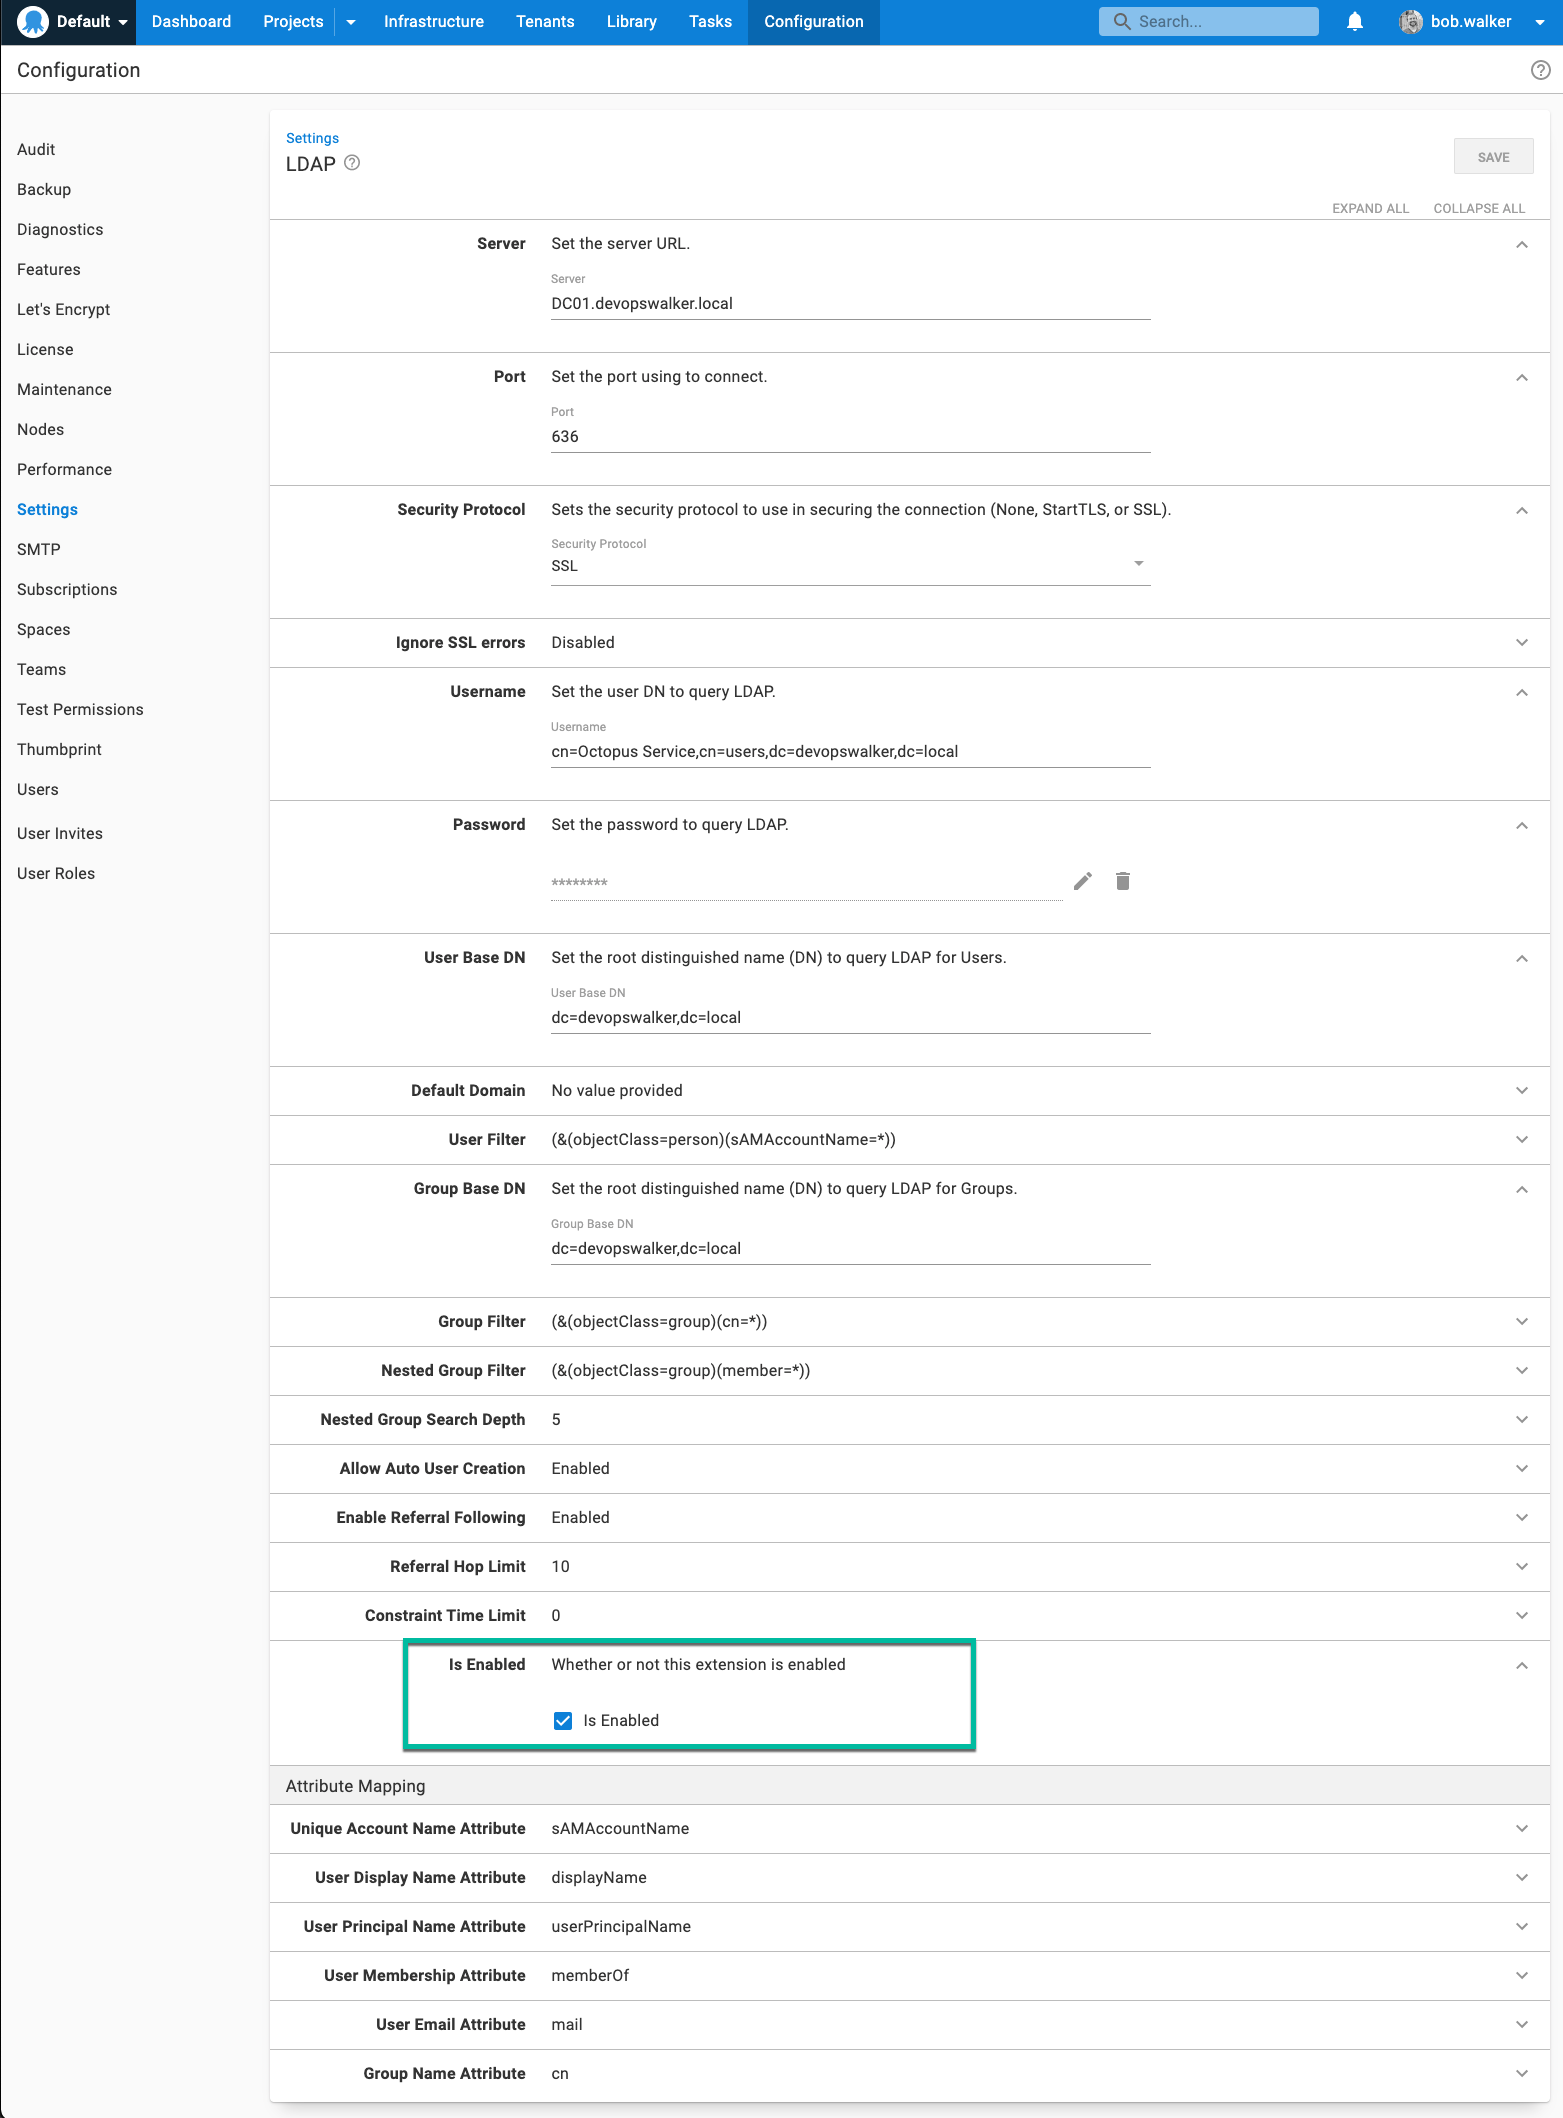
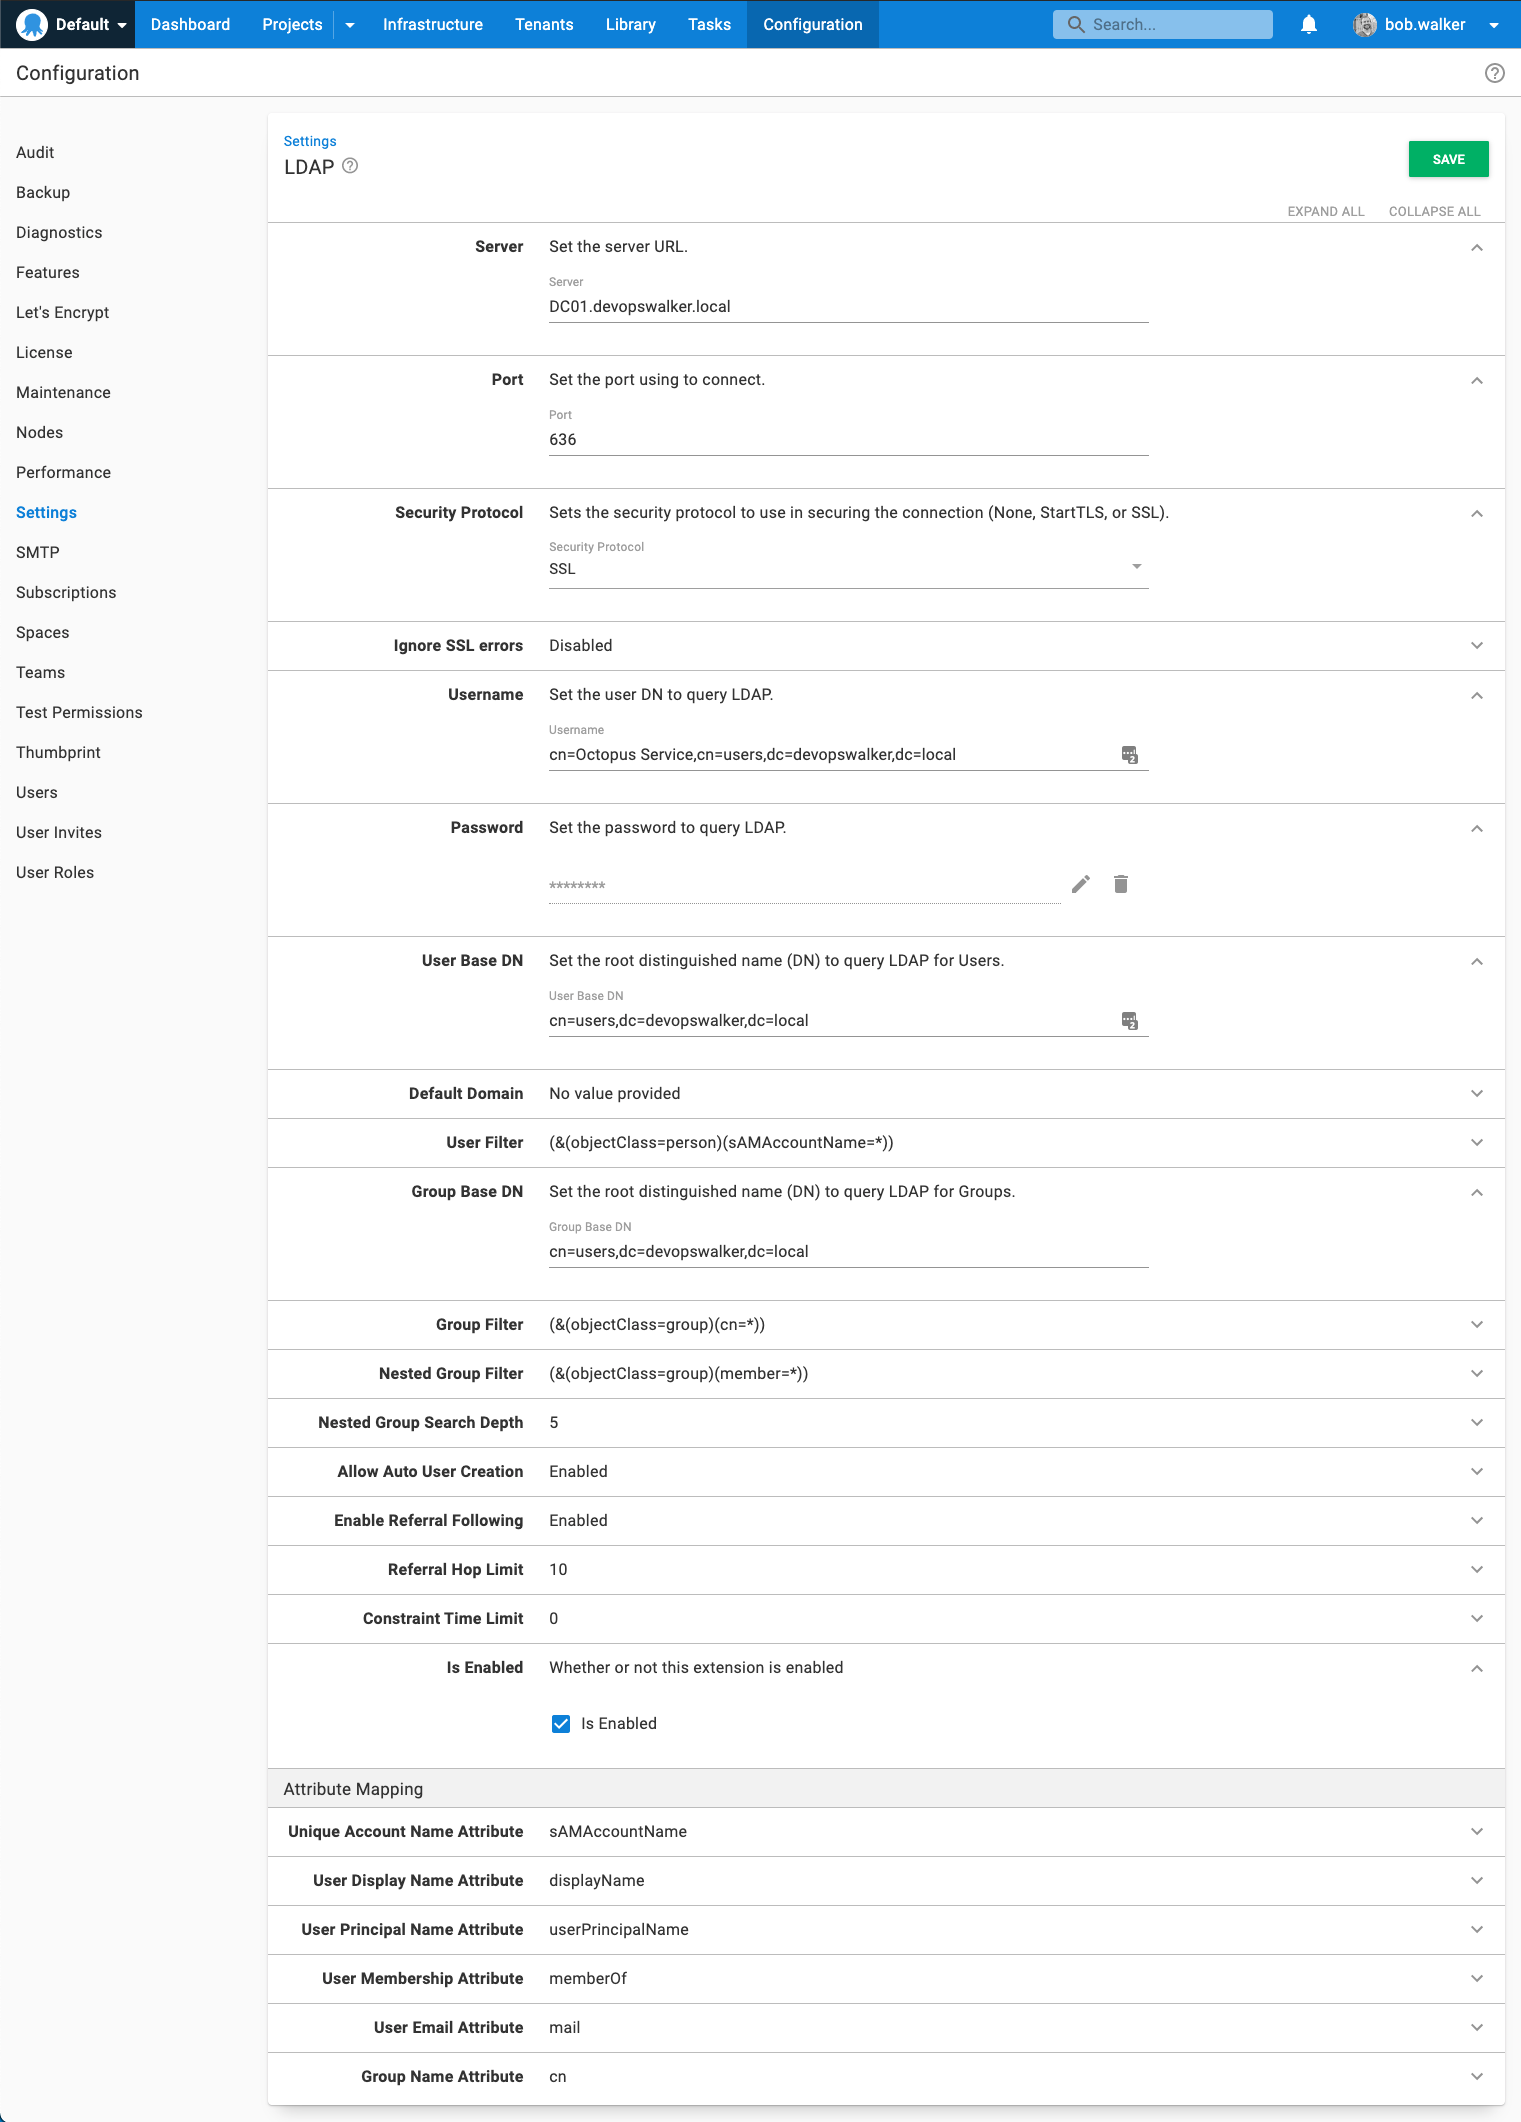
Updates per PR

diff --git a/blog/2021-08/ldap-auth-provider/index.md b/blog/2021-08/ldap-auth-provider/index.md
@@ -10,10 +10,10 @@ tags:
  - Octopus
 ---
 
-In Octopus Deploy 2021.2, we are adding the [LDAP](https://ldap.com/) authentication provider.  In this post, I will walk you through the steps to configure the LDAP authentication provider to work with your LDAP Server.  By the end of this post, my Octopus Deploy instance will authenticate over LDAP to my local domain, `devopswalker.local`, running on Windows Server 2019.
+In Octopus Deploy 2021.2, we are adding the [LDAP](https://ldap.com/) authentication provider.  At first look, this might not seem like a big deal, but it is.  For a lot of our customers, they wish to migrate over to the Octopus Linux Container, but they had to authenticate via Active Directory.  Active Directory is also an LDAP server, meaning with the new LDAP provider you can now use the Octopus Linux Container AND authenticate to Active Directory.  In this post, I will walk you through the steps I did to configure the LDAP authentication provider.  By the end of this post, my Octopus Deploy instance will authenticate over LDAP to my local domain, `devopswalker.local`, running on Windows Server 2019.
 
 :::hint
-This article assumes you are familiar with directory services core concepts.  If you are unsure of any of these concepts, please get in touch with your local system administrator.
+This article assumes you are familiar with directory services core concepts.  If you are unsure of any of these concepts, please talk with your local system administrator.
 :::
 
 ## LDAP Background
@@ -24,21 +24,21 @@ LDAP, or Lightweight Directory Access Protocol, is an open, vendor-neutral, indu
 
 There are three primary use cases why we added LDAP support.
 
-1. Not everyone is running Active Directory.  LDAP is vendor-neutral, meaning more non-Microsoft users can take advantage of external authentication.
+1. Not everyone is running Active Directory.  LDAP is vendor-neutral, meaning more non-Microsoft users can take advantage of external authentication.  Most, if not all, directory servers support LDAP.  
 2. Active Directory / integrated authentication requires servers to be added to the domain.  That does not work with the Octopus Linux Container.
-3. Using Active Directory authentication on a non-Windows client (specifically MacOS) is a pain.  
+3. Users with non-Windows clients (specifically MacOS) will have the exact same experience as Windows clients.  With Active Directory, if you clicked the `Sign in with a domain account` button on Chrome running on MacOS you could end up an enless login prompt loop.  At least, I did (and I didn't have the patience to fix it).
 
-There are several other advantages to using LDAP, such as cross-domain queries.  I'd recommend spending a few hours on [ldap.com](https://ldap.com) to learn more about what LDAP can and cannot offer.
+There are several other advantages to using LDAP, such as cross-domain queries.  I'd recommend spending a few hours on [ldap.com](https://ldap.com) to learn more about what LDAP can and cannot offer.  It is a very flexible protocol, and each directory server, be it Active Directory or OpenLDAP offer a lot of functionality.
 
 ## Secure your LDAP Server First
 
-By default, LDAP traffic is not encrypted.  By monitoring network traffic, an eavesdropper could learn your LDAP password.  Before configuring the LDAP provider in Octopus Deploy, please consult the vendor documentation for your directory server for communicating over SSL or TLS.  Securing an LDAP server is outside the scope of this blog post.  The rest of this post assumes you have worked with your system administrators on securing your LDAP server.
+By default, LDAP traffic is not encrypted.  By monitoring network traffic, an eavesdropper could learn your LDAP password.  Before configuring the LDAP provider in Octopus Deploy, please consult the vendor documentation for your directory server for communicating over SSL or TLS.  Securing an LDAP server is outside the scope of this blog post, and is unique to each vendor.  The rest of this post assumes you have worked with your system administrators on securing your LDAP server.
 
 ## Understanding DNs
 
 In LDAP, a DN, or a distinguished name, uniquely identifies an entry and the position in a directory information tree.  Think of it as a path to a file on a file system.
 
-As I stated earlier, my domain is `devopswalker.local`.  Translating that to a DN LDAP can understand is `dc=devopswalker,dc=local`.  All users are stored in the group users.  The DN for that is `cn=users,dc=devopswalker,dc=local`.  My user account `Bob Walker` DN is `cn=Bob Walker,cn=users,dc=devopswalker,dc=local`
+As I stated earlier, my domain is `devopswalker.local`.  Translating that to a DN LDAP can understand is `dc=devopswalker,dc=local`.  All users and groups on my directory server are stored have a common DN of `cn=users,dc=devopswalker,dc=local`.  My user account `Bob Walker` DN is `cn=Bob Walker,cn=users,dc=devopswalker,dc=local`. 
 
 ## What you will need
 
@@ -46,10 +46,14 @@ Before configuring LDAP, you will need the following.
 
 - The fully qualified domain name, or FQDN, of the server to query.  In my example, it will be `DC01.devopswalker.local`.
 - The port number and security protocol to use.  I'm using the standard secure LDAP port 636 for my domain controller and SSL.
-- The username and password of a service account that can perform user and group lookups.  In my example, it will be `octopus_svc@devopswalker.local`.
-- The root DN you wish to use.  In my example, it will be `dc=devopswalker,dc=local`.
+- The username and password of a service account that can perform user and group lookups.  In my example, it will be `cn=Octopus Service,cn=users,dc=devopswalker,dc=local`.
+- The root DN you wish to use for user and group look up.  In my example, both will be `cn=users,dc=devopswalker,dc=local`.
 
-**Please Note**: my example is using a straightforward Active Directory configuration.  Your DN and FQDN might be much more complex.
+:::hint
+Leverage a tool such as `ldp.exe` for Windows or [LDAP Administrator](https://www.ldapadministrator.com/download.htm#browser) to find where the highest part on the tree / forest you want to start at.  Starting at the root, for example `dc=devopswalker,dc=local` could lead to performance problems as the LDAP query is forced to to traverse hundreds or thousands of records.  The less data to go through, the faster the query will be.  Because of my active directory configuration, all users and groups is stored in `cn=users,dc=devopswalker,dc=local`.  Your server might be different.
+
+![the results of an ldp browser](ldp-browser.png)
+:::
 
 ## Configuring LDAP Authentication Provider in Octopus Deploy
 
@@ -59,12 +63,12 @@ Navigate to {{Configuration, Settings, LDAP}}.  Enter values in the following fi
 - Port: Change the port (if your secure port is different from the default).
 - Security Protocol: Change to SSL or StartTLS.
 - Username: Enter the username that will be used to perform the user lookups.  It can either be `[username]@[domain name]` or the user's DN.
-- User base DN: enter the base DN for your users, which in my example is `dc=devopswalker,dc=local`.
-- Group base DN: enter the base DN for your users, which in my example is `dc=devopswalker,dc=local`.
+- User base DN: enter the base DN for your users, which in my example is `cn=users,dc=devopswalker,dc=local`.
+- Group base DN: enter the base DN for your groups, which in my example is `cn=users,dc=devopswalker,dc=local`.
 - Is Enabled: Check the check box to enable the feature.
 
 :::hint
-If you want to limit the LDAP query, add more values to the user and group base DN.  For example, `cn=users,dc=devopswalker,dc=local`.
+As stated earlier, I am using Active Directory running on Windows Server 2019.  Your root DN might be very different than mine.  Please consult a system administrator or use an LDAP explorer to find the right user and group DNs for your directory service.
 :::
 
 ![basic configuration for LDAP authentication provider](ldap-auth-provider-configuration.png)
@@ -84,12 +88,14 @@ However, I did not see that screen at first. Instead, I saw this:
 
 ![failed user lookup](failed-user-lookup.png)
 
-The error `Unable to connect to the LDAP server.  Please see your administrator if this re-occurs.  Error Code 49 Invalid Credentials` is an LDAP lookup error.  In this case, it means I misconfigured to perform the user and group lookups.  There are also data codes for each LDAP error type code.  To access that information, open up your Octopus Server logs.   
+The error `Unable to connect to the LDAP server.  Please see your administrator if this re-occurs.  Error Code 49 Invalid Credentials` is an LDAP lookup error.  In my case, this was caused by me mistyping the password for the lookup user.  
+
+LDAP also returns a data code for each error code.  In the event you need to look up that information, you'd need to open up your Octopus Server logs.   
 
 ![data error code](ldap-error-data.png)
 
 :::hint
-After banging my head against the wall for a while, I found that my authentication provider was misconfigured.  If you get errors you can't explain, try performing a similar action using an LDAP explorer on the same server hosting Octopus Deploy.  Take Octopus out of the equation.  If everything works via the explorer, reach out to [support@octopus.com](mailto:support@octopus.com) for more help.
+If you get errors you can't explain, try performing a similar action using an LDAP explorer on the same server hosting Octopus Deploy.  In other words, take Octopus out of the equation.  Get everything working via the explorer tool, then try configuring Octopus Deploy.  If everything works via the explorer and something still isn't working with Octopus Deploy, reach out to [support@octopus.com](mailto:support@octopus.com) for more help.
 :::
 
 The external group lookup is the same as the external user lookup.  Except, go to {{Configuration,Teams}} and select a team.  Then click the button `ADD LDAP GROUP` and perform a search.  If everything is configured correctly, then you will see this message:
@@ -104,21 +110,21 @@ After the above tests are successful, it is time to try the next test, logging i
 
 ![UPN Error](failed-sign-in.png)
 
-Changing the username to just `professor.octopus` worked as expected.  The new user was created and assigned to the appropriate team.
+Changing the username to just `professor.octopus` worked as expected.  This is because the default configuration is to use the `sAMAccountName` to match on.  The new user was created and assigned to the appropriate team.
 
 ![Successful sign in](new-user-created.png)
 
-While it all worked, I would like to use the fully qualified name to log in.  It turns out; it is the LDAP configuration in Octopus that needs modification.  Change the User Filter to be `(&(objectClass=person)(userPrincipalName=*))`.  
+My personal preference is to use `professor.octopus@devopswalker.local` to log in.  If you have a similar preference (or company policy), change the User Filter to be `(&(objectClass=person)(userPrincipalName=*))`.  In our testing we did notice less reliable results using `user@domain`; however your configuration might be different than our testing environment.
 
 ![Updated User Filter](updated-ldap-user-filter.png)
 
-I needed to change that filter because the fully qualified name is stored as the user principal name in my domain controller.
+I chose `userPrincipalName` because fully qualified name that is where `professor.octopus@devopswalker.local` is stored in my domain controller.  Your directory server might be different.
 
 ![user principal vs user id](user-id-vs-principal.png)
 
 ## Conclusion
 
-As you can see, unlike the Active Directory authentication provider, the LDAP authentication provider doesn't "just work" out of the box with little to no configuration.  You'll have to do some testing to make sure everything works as expected.  Because of that, I recommend setting up a test instance to dial in all your LDAP authentication settings.  
+As you can see, unlike the Active Directory authentication provider, the LDAP authentication provider is much more flexible because LDAP itself is much more flexible.  That flexibility does make the LDAP authentication provider more complex.  It might take a some trial and error to dial in your settings.  Because of that, I recommend setting up a test instance to test all your LDAP authentication settings.  
 
 That being said, I'm very excited about adding the LDAP authentication provider to Octopus Deploy.  For quite some time, I've wanted to have active directory authentication but dreaded turning it on.  I have multiple user accounts on my local active directory, each with different permissions in Octopus.  The thought of logging out/logging in on my actual computer each time I wanted to test something was not appealing.  LDAP solves that problem, along with a host of other problems.
 
